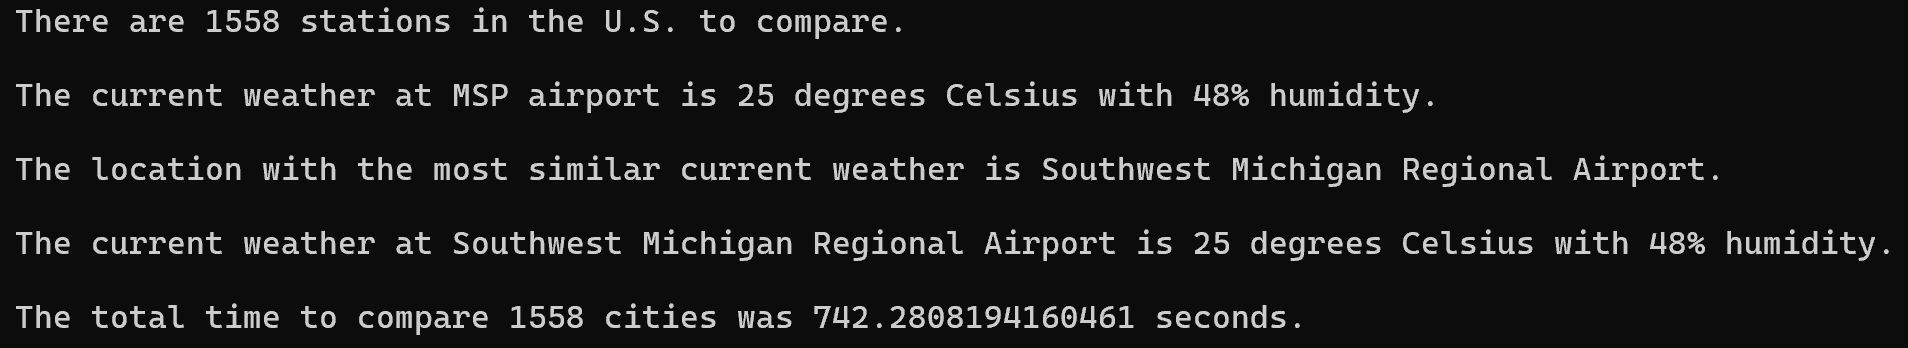
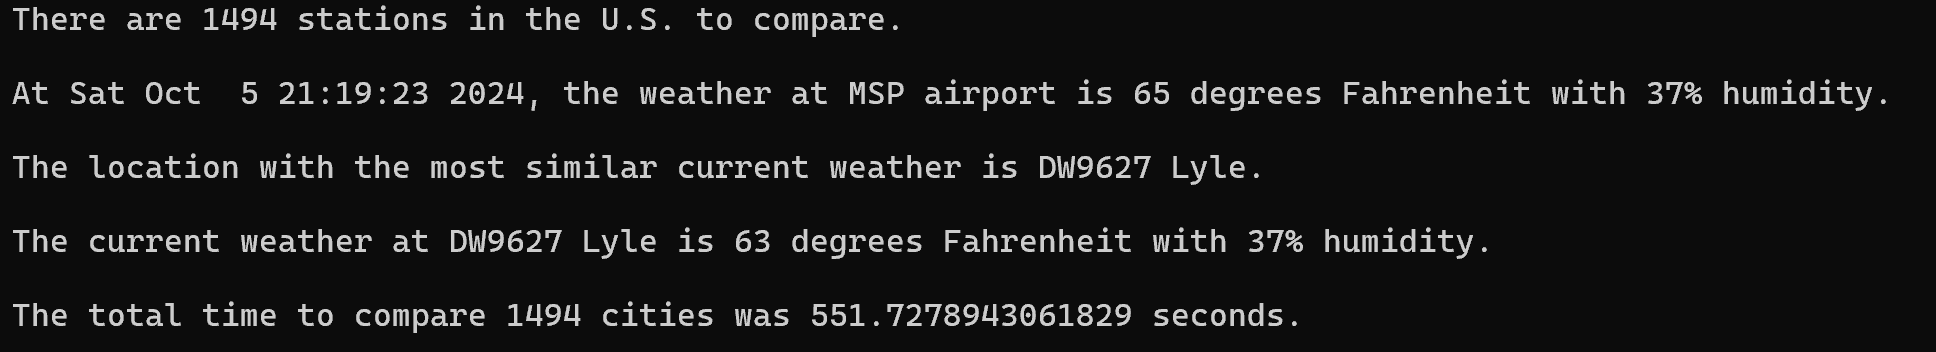
Added time and date to output message

diff --git a/mvp1/mvp1.py b/mvp1/mvp1.py
@@ -8,6 +8,8 @@ import time
 
 start_time = time.time()
 
+current_time = time.asctime()
+
 '''
 Section 1
 Get the current temperature at the MSP airport and print this temp to the terminal.
@@ -28,11 +30,12 @@ zones = zones.json()
 
 stations = []
 for i in range(len(zones['features'])):
-    zoneID = zones['features'][i]['properties']['id']
-    observationStations = zones['features'][i]['properties']['observationStations']
-    if observationStations != []:
-        station = observationStations[0][33:]
-        stations.append(station)
+    if zones['features'][i]['properties']['state'] != 'MN':         # exclude MN weather stations from comparison
+        zoneID = zones['features'][i]['properties']['id']
+        observationStations = zones['features'][i]['properties']['observationStations']
+        if observationStations != []:
+            station = observationStations[0][33:]
+            stations.append(station)
 
 stations = list(set(stations))
 
@@ -101,14 +104,16 @@ Find the name of the location where the Observation Station is located.
 '''
 closestStation = stationWeatherList[0]
 closestStationID = closestStation[1]
-closestStationTemp = closestStation[2]
+closestStationTemp = closestStation[2] * 1.8 + 32       # convert to Fahrenheit
 closestStationHumidity = closestStation[3]
+
+mplsTemp = mplsTemp * 1.8 + 32      # convert to Fahrenheit
 
 closestStationName = requests.get(f'https://api.weather.gov/stations/{closestStationID}').json()
 closestStationName = closestStationName['properties']['name']
-print(f'The current weather at MSP airport is {mplsTemp} degrees Celsius with {round(mplsHumidity)}% humidity.\n')
+print(f'At {current_time}, the weather at MSP airport is {round(mplsTemp)} degrees Fahrenheit with {round(mplsHumidity)}% humidity.\n')
 print(f'The location with the most similar current weather is {closestStationName}.\n')
-print(f'The current weather at {closestStationName} is {closestStationTemp} degrees Celsius with {round(closestStationHumidity)}% humidity.\n')
+print(f'The current weather at {closestStationName} is {round(closestStationTemp)} degrees Fahrenheit with {round(closestStationHumidity)}% humidity.\n')
 
 
 end_time = time.time()
